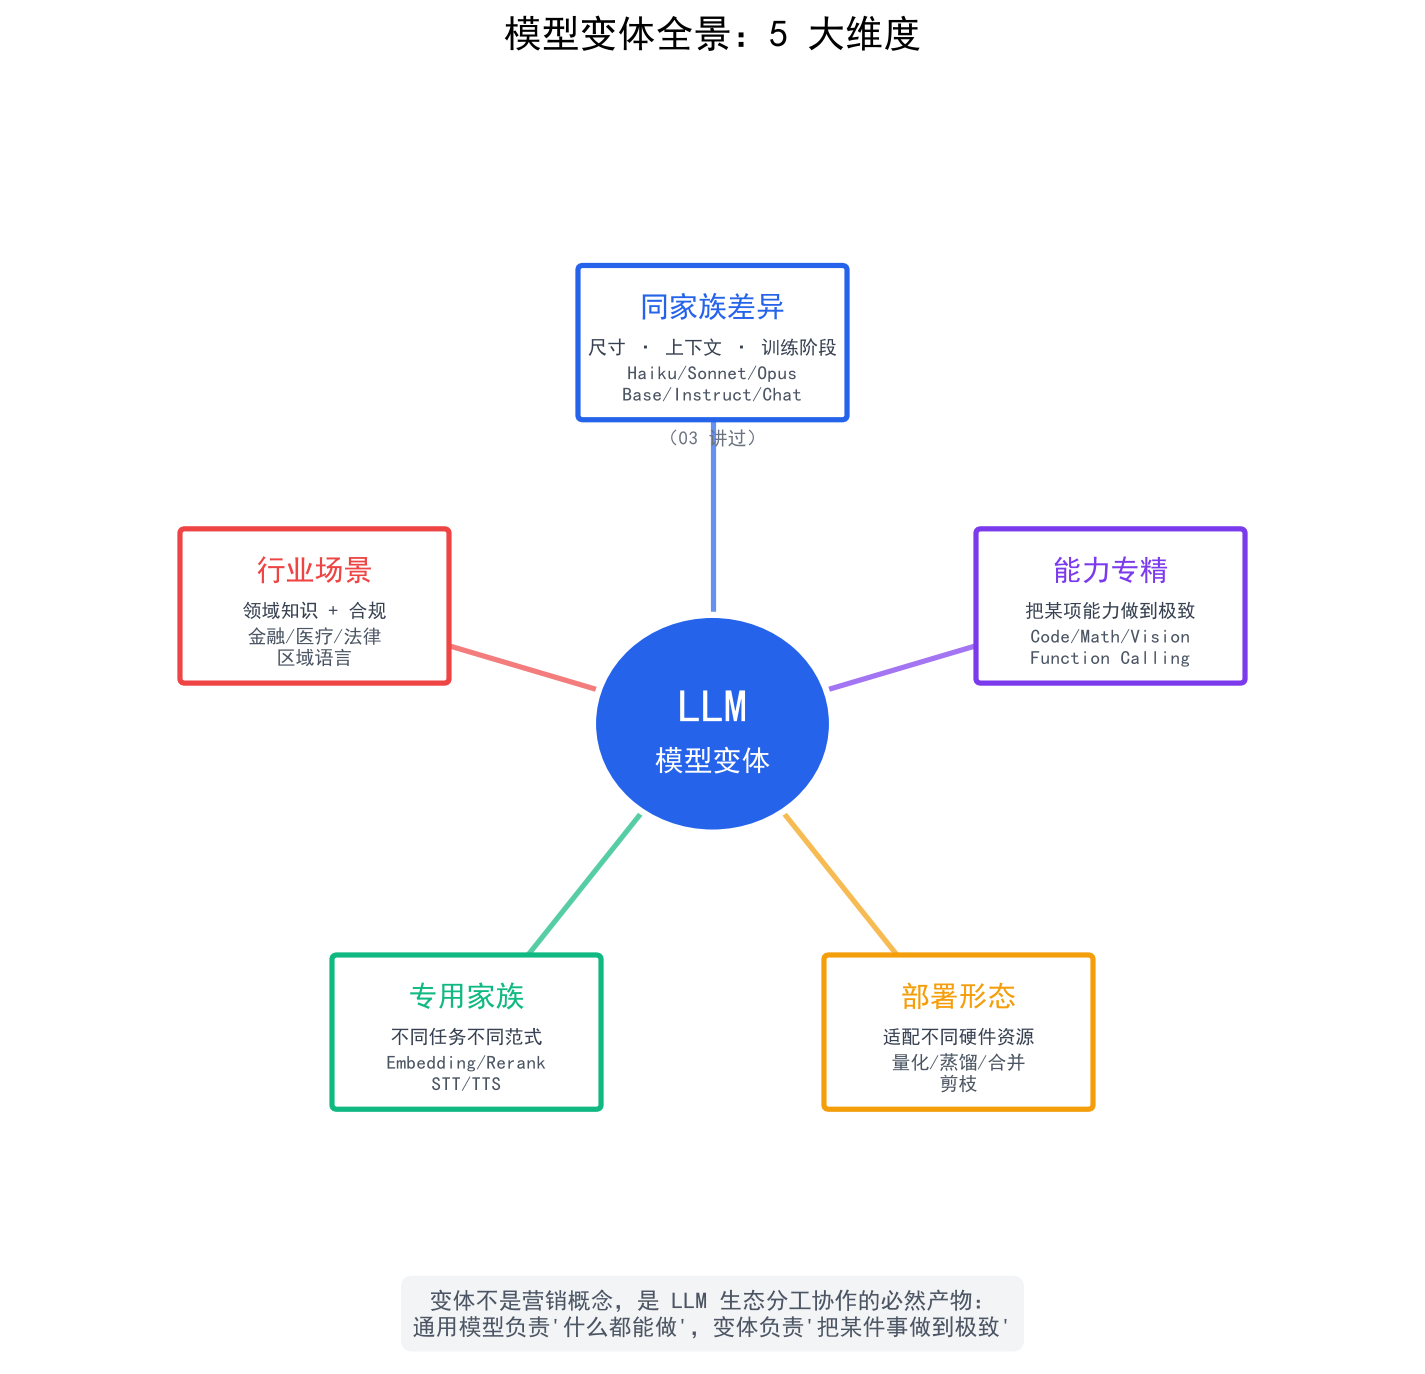
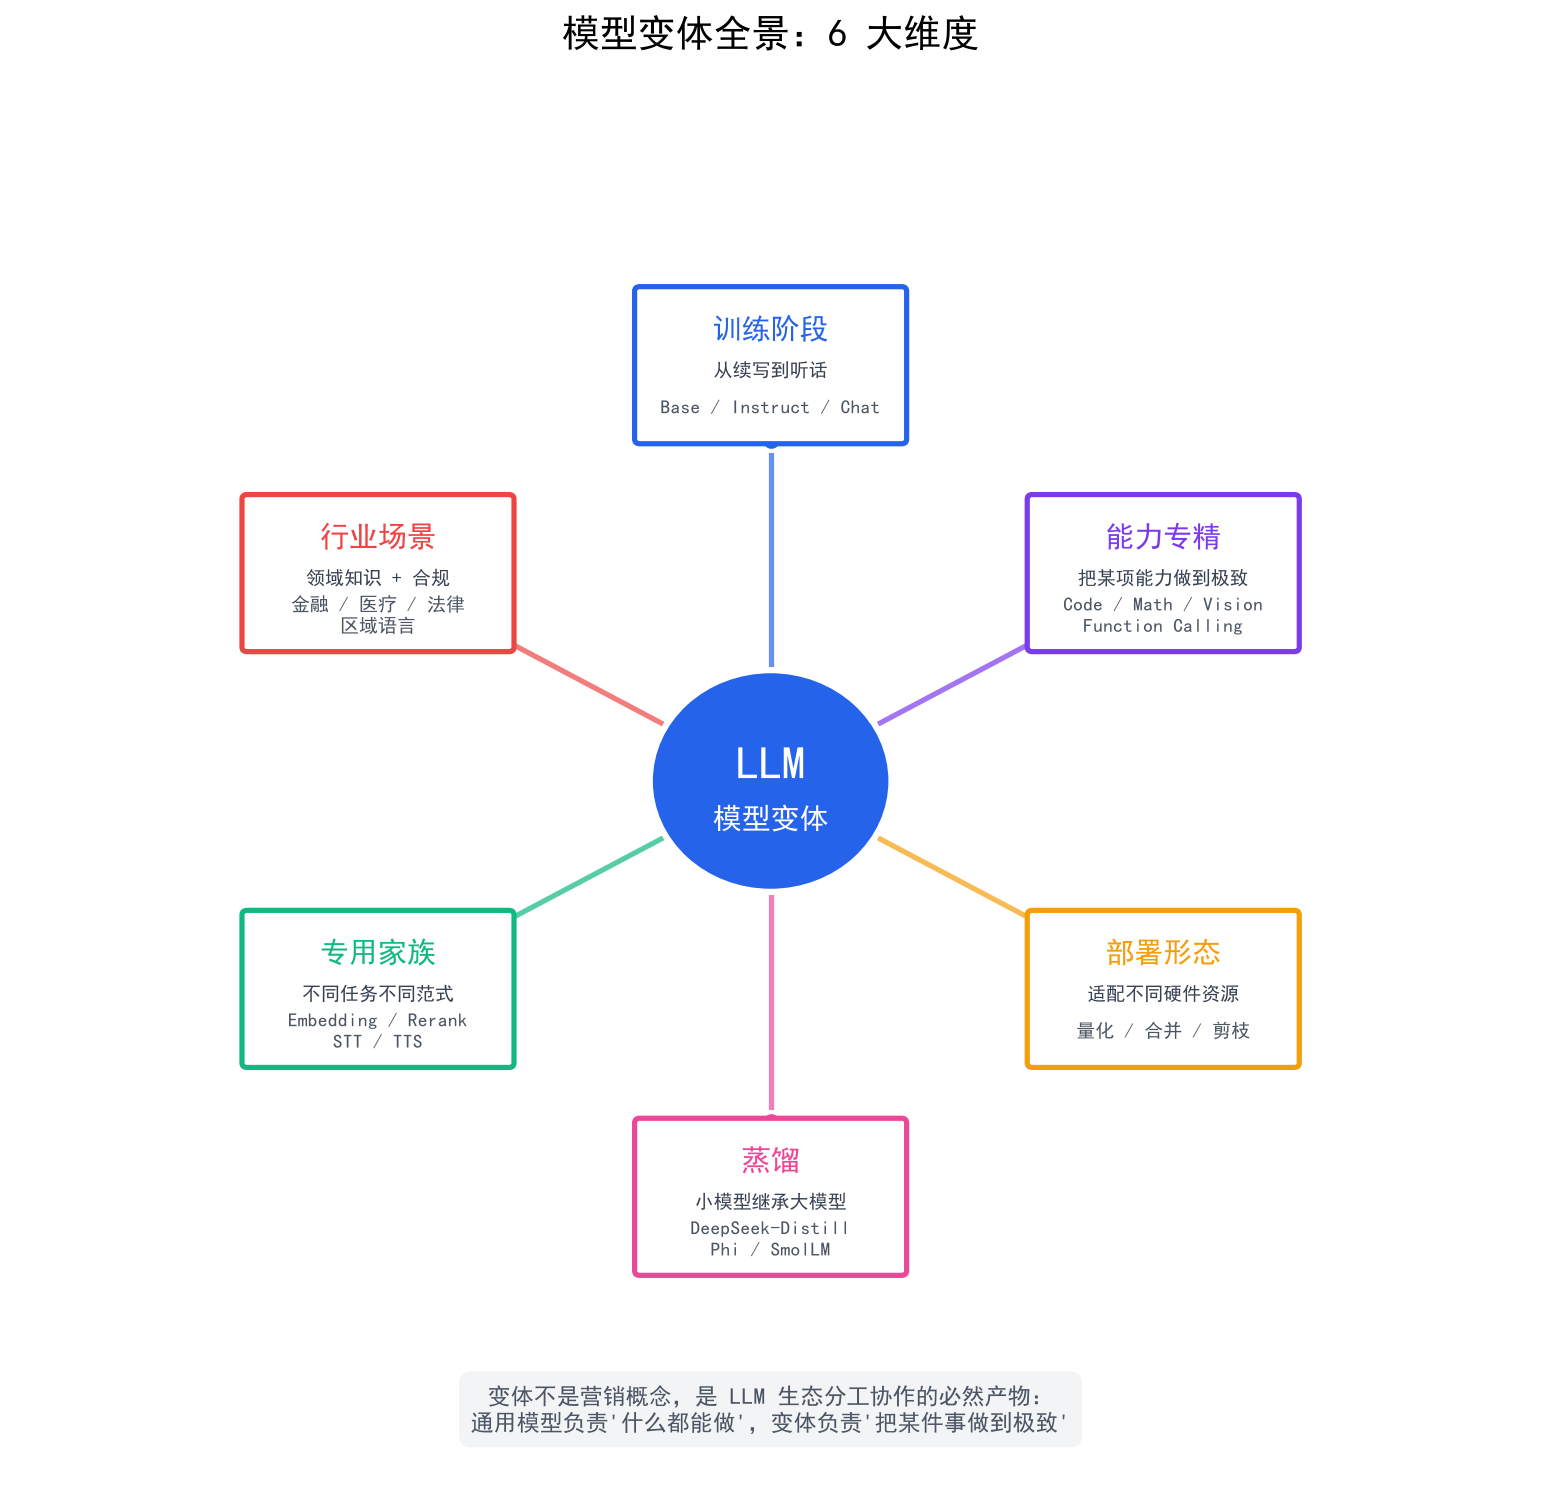
fix(02): 更新变体全景图 5 维度 → 6 维度，新增蒸馏维度

diff --git a/scripts/gen_ch02_variants_landscape.py b/scripts/gen_ch02_variants_landscape.py
@@ -1,11 +1,10 @@
 # -*- coding: utf-8 -*-
-"""生成 07-model-variants 的配图：变体全景图"""
+"""生成 04-model-variants-landscape 的配图：变体全景图（6 大维度）"""
 import os
 import sys
 import math
 import matplotlib.pyplot as plt
-from matplotlib.patches import FancyBboxPatch, Circle, FancyArrowPatch, Wedge
-from matplotlib import font_manager
+from matplotlib.patches import FancyBboxPatch, Circle
 
 # 让脚本能找到 skill
 sys.path.insert(0, r'e:\Projects\multi-agent-manager\skills\matplotlib-figures')
@@ -17,13 +16,13 @@ OUT_DIR = r"e:\Learning\AgentDevGuide\assets\02-model-access"
 os.makedirs(OUT_DIR, exist_ok=True)
 
 
-# ============= 1. 变体全景图（5 个维度） =============
+# ============= 1. 变体全景图（6 个维度） =============
 def make_variants_landscape():
-    fig, ax = plt.subplots(figsize=(12, 11))
-    ax.set_xlim(-7, 7)
-    ax.set_ylim(-7, 7)
+    fig, ax = plt.subplots(figsize=(13, 12))
+    ax.set_xlim(-7.5, 7.5)
+    ax.set_ylim(-7.5, 7.5)
     ax.axis('off')
-    ax.set_title('模型变体全景：5 大维度',
+    ax.set_title('模型变体全景：6 大维度',
                  fontsize=18, fontweight='bold', pad=20)
 
     # 中心
@@ -35,64 +34,69 @@ def make_variants_landscape():
     ax.text(0, -0.4, '模型变体', ha='center', va='center',
             fontsize=14, color='white', zorder=11)
 
-    # 5 个变体维度（环形布局）
-    # 维度顺序和位置
+    # 6 个变体维度（环形布局，每个 60 度）
     dimensions = [
         {
-            'name': '同家族差异',
+            'name': '训练阶段',
             'angle': 90,           # 顶部
             'color': COLORS['primary'],
-            'subtitle': '尺寸 · 上下文 · 训练阶段',
-            'examples': 'Haiku/Sonnet/Opus\nBase/Instruct/Chat',
-            'tag': '03 讲过',
+            'subtitle': '从续写到听话',
+            'examples': 'Base / Instruct / Chat',
+            'tag': '',
         },
         {
             'name': '能力专精',
-            'angle': 90 - 72,      # 右上
+            'angle': 90 - 60,      # 右上
             'color': COLORS['secondary'],
             'subtitle': '把某项能力做到极致',
-            'examples': 'Code/Math/Vision\nFunction Calling',
+            'examples': 'Code / Math / Vision\nFunction Calling',
             'tag': '',
         },
         {
             'name': '部署形态',
-            'angle': 90 - 144,     # 右下
+            'angle': 90 - 120,     # 右下
             'color': COLORS['warning'],
             'subtitle': '适配不同硬件资源',
-            'examples': '量化/蒸馏/合并\n剪枝',
+            'examples': '量化 / 合并 / 剪枝',
+            'tag': '',
+        },
+        {
+            'name': '蒸馏',
+            'angle': 90 - 180,     # 底部
+            'color': '#ec4899',    # 粉
+            'subtitle': '小模型继承大模型',
+            'examples': 'DeepSeek-Distill\nPhi / SmolLM',
             'tag': '',
         },
         {
             'name': '专用家族',
-            'angle': 90 - 216,     # 左下
+            'angle': 90 - 240,     # 左下
             'color': COLORS['success'],
             'subtitle': '不同任务不同范式',
-            'examples': 'Embedding/Rerank\nSTT/TTS',
+            'examples': 'Embedding / Rerank\nSTT / TTS',
             'tag': '',
         },
         {
             'name': '行业场景',
-            'angle': 90 - 288,     # 左上
+            'angle': 90 - 300,     # 左上
             'color': COLORS['danger'],
             'subtitle': '领域知识 + 合规',
-            'examples': '金融/医疗/法律\n区域语言',
+            'examples': '金融 / 医疗 / 法律\n区域语言',
             'tag': '',
         },
     ]
 
     for d in dimensions:
-        # 转弧度
         rad = math.radians(d['angle'])
-        # 节点中心
-        cx = 4.2 * math.cos(rad)
-        cy = 4.2 * math.sin(rad)
+        cx = 4.5 * math.cos(rad)
+        cy = 4.5 * math.sin(rad)
 
         # 连线
-        ax.plot([0, cx * 0.85], [0, cy * 0.85],
+        ax.plot([0, cx * 0.82], [0, cy * 0.82],
                 color=d['color'], linewidth=2.5,
                 alpha=0.7, zorder=1)
         # 端点小圆
-        ax.plot(cx * 0.85, cy * 0.85, 'o', color=d['color'],
+        ax.plot(cx * 0.82, cy * 0.82, 'o', color=d['color'],
                 markersize=10, markeredgecolor='white',
                 markeredgewidth=2, zorder=2)
 
@@ -129,7 +133,7 @@ def make_variants_landscape():
     # 底部说明
     note = ("变体不是营销概念，是 LLM 生态分工协作的必然产物：\n"
             "通用模型负责'什么都能做'，变体负责'把某件事做到极致'")
-    ax.text(0, -6.5, note, ha='center', va='center',
+    ax.text(0, -6.8, note, ha='center', va='center',
             fontsize=11, color=COLORS['muted'],
             bbox=dict(boxstyle="round,pad=0.5",
                       facecolor='#f3f4f6', edgecolor='none'))